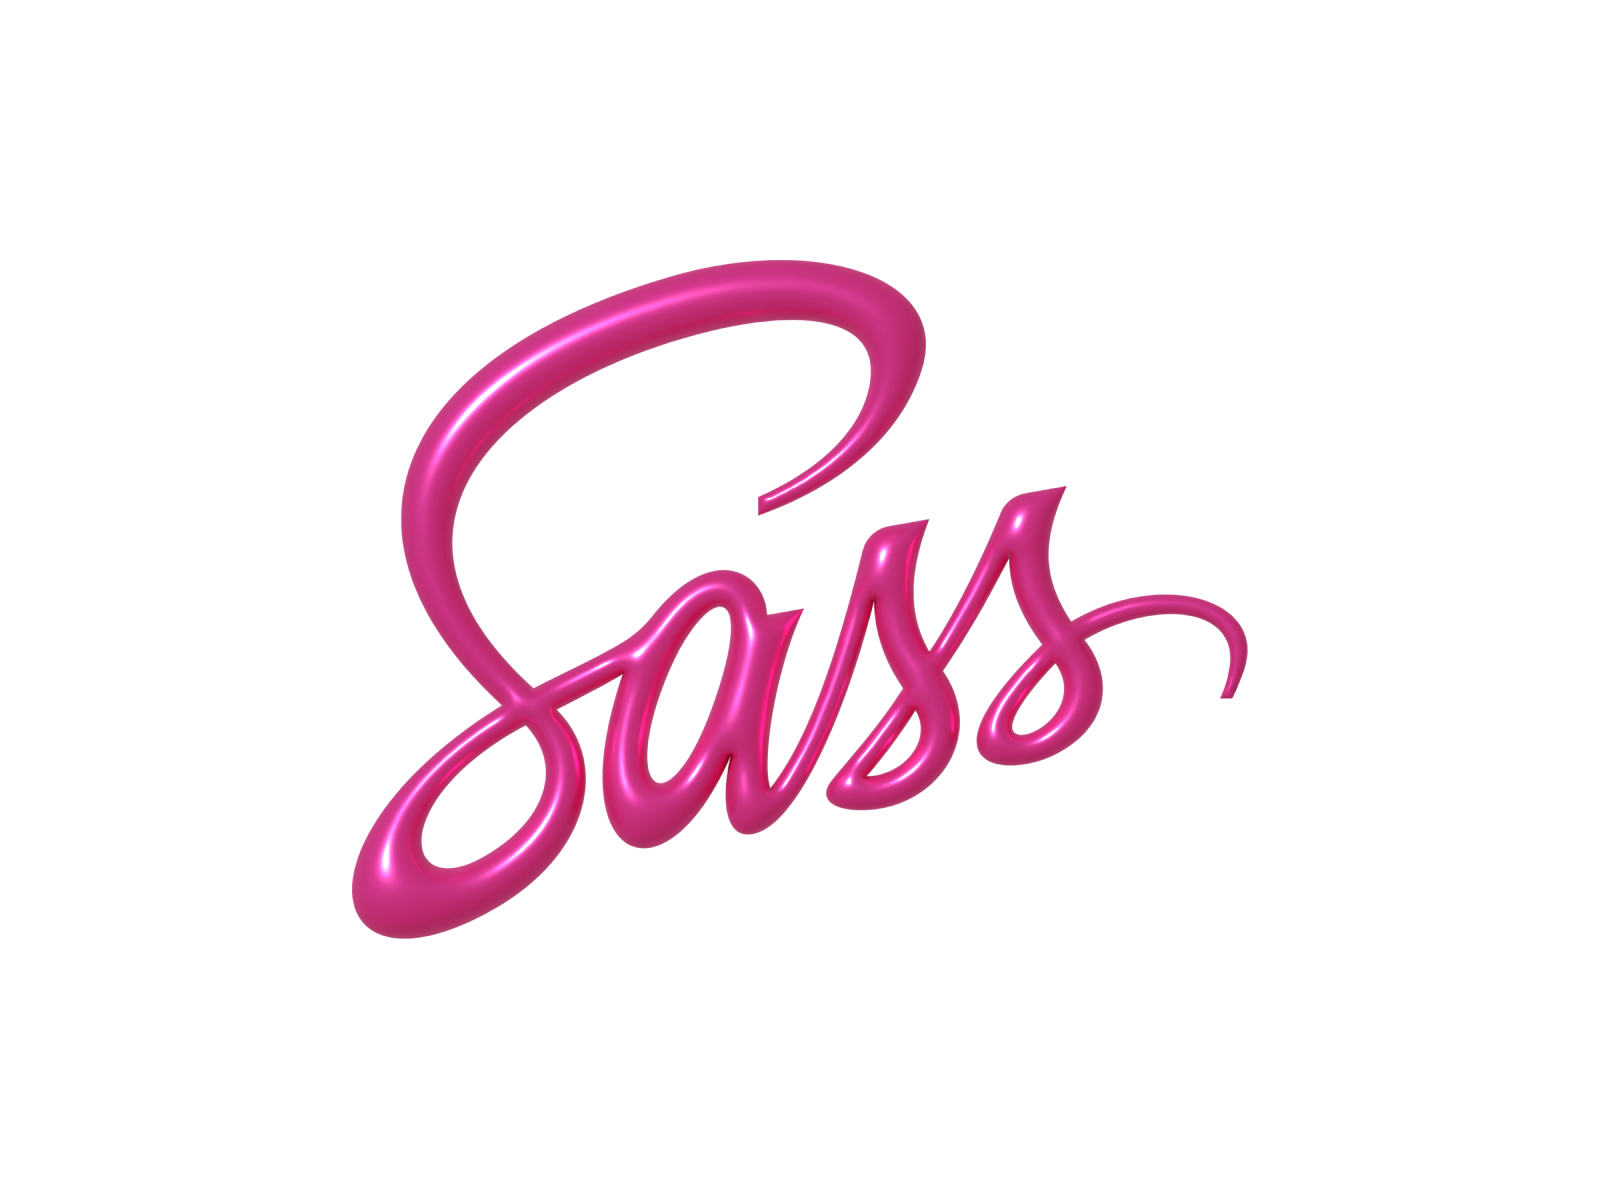
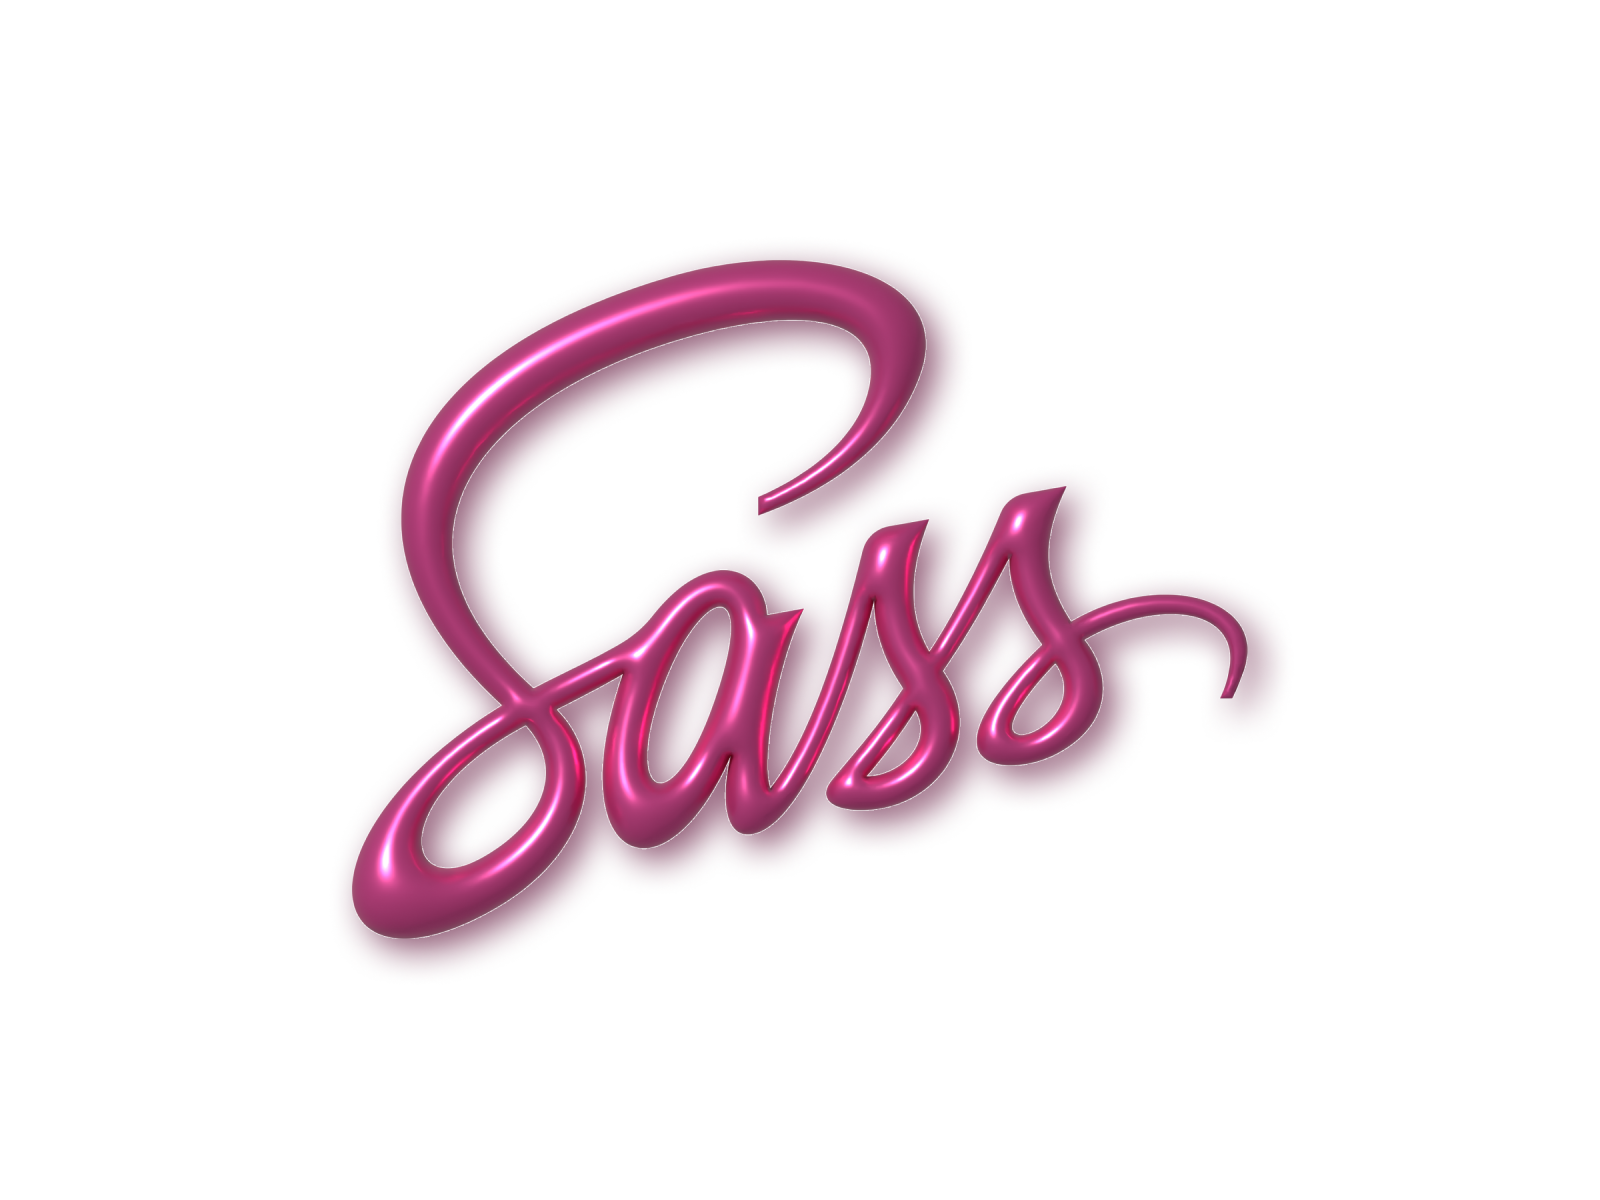
Add

Changed region(s): [[0.2188, 0.2158, 0.8125, 0.8017]]

diff --git a/works/2022/revitalizing-sass.md b/works/2022/revitalizing-sass.md
@@ -15,48 +15,24 @@ technology: 'Illustrator, Photoshop, Git'
 excerpt: As a long-time admirer and user of the renowned Sass CSS preprocessor, which has empowered me to create my own CSS framework, Uniform CSS, I sought to contribute my design expertise to the open-source community by carefully revitalizing the iconic logo. I embraced the essence of the original design while introducing subtle yet impactful refinements.
 
 workImages:
-- url: 'revitalizing-sass-01.png'
-  alt: 'Before'
-  col: 1
-- url: 'revitalizing-sass-02.png'
-  alt: 'After'
-  col: 1
 - url: 'revitalizing-sass-03.png'
   alt: ''
   col: 1
 - url: 'revitalizing-sass-04.png'
   alt: ''
   col: 1
-- url: 'revitalizing-sass-02.png'
+- url: 'revitalizing-sass-05.png'
   alt: ''
+  col: 1
+- url: 'revitalizing-sass-06.png'
+  alt: ''
+  col: 1
+- url: 'revitalizing-sass-01.png'
+  alt: 'Before'
   col: 1
 - url: 'revitalizing-sass-02.png'
-  alt: ''
+  alt: 'After'
   col: 1
-- url: 'revitalizing-sass-02.png'
-  alt: ''
-  col: 1
-- url: 'revitalizing-sass-02.png'
-  alt: ''
-  col: 1
-# - url: 'siwan-13.jpg'
-#   alt: ''
-#   col: 1
-# - url: 'siwan-14.jpg'
-#   alt: ''
-#   col: 1
-- url: 'siwan-04.jpg'
-  alt: ''
-  col: 1
-- url: 'siwan-05.jpg'
-  alt: ''
-  col: 1
-# - url: 'siwan-14.jpg'
-#   alt: ''
-#   col: 1
-# - url: 'siwan-06.jpg'
-#   alt: ''
-#   col: 1
 ---
 
 During the design process, I meticulously compared the new logo against the original, identifying stress points where the spacing and overall balance required adjustments. This careful approach ensured that the refreshed logo maintained visual harmony while addressing areas that were previously too tight or too loose.
